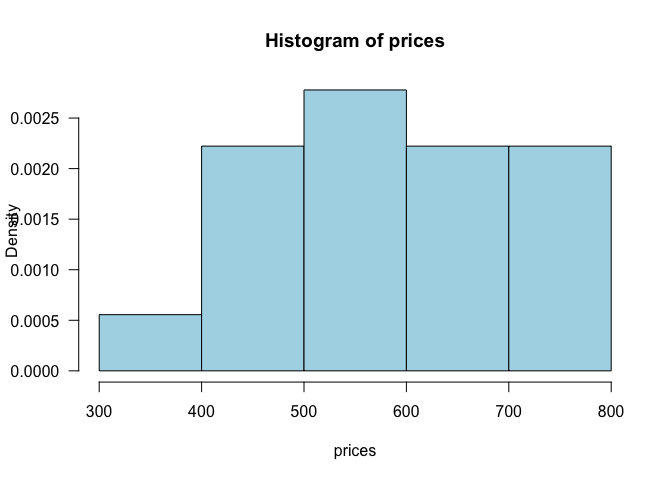
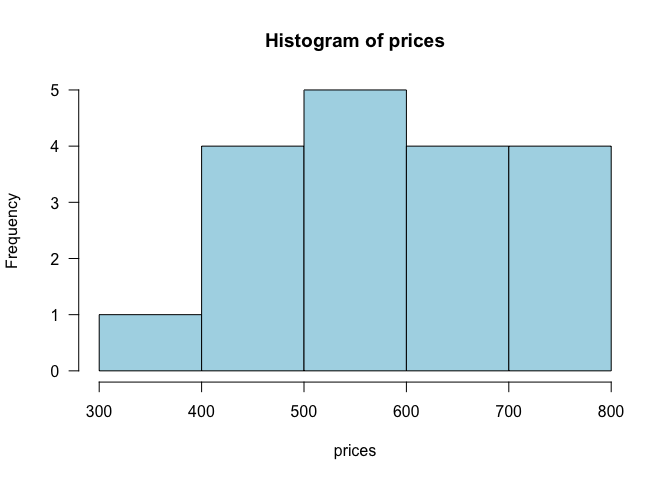
Density histograms

diff --git a/R/DensityHistogram.md b/R/DensityHistogram.md
@@ -1,12 +1,12 @@
 Density histograms
 
-Use `freq = FALSE`
+use `freq = FALSE`
 
 ``` r
 prices <- c(379, 425, 450, 450, 499, 529, 535, 535, 545, 599, 665,
             675, 699, 699, 725, 725, 745, 799)
 
-hist(prices, freq = FALSE, breaks = c(300, 400, 500, 600, 700, 800),
+hist(prices, breaks = c(300, 400, 500, 600, 700, 800),
      col = "lightblue", las = 1)
 ```
 
